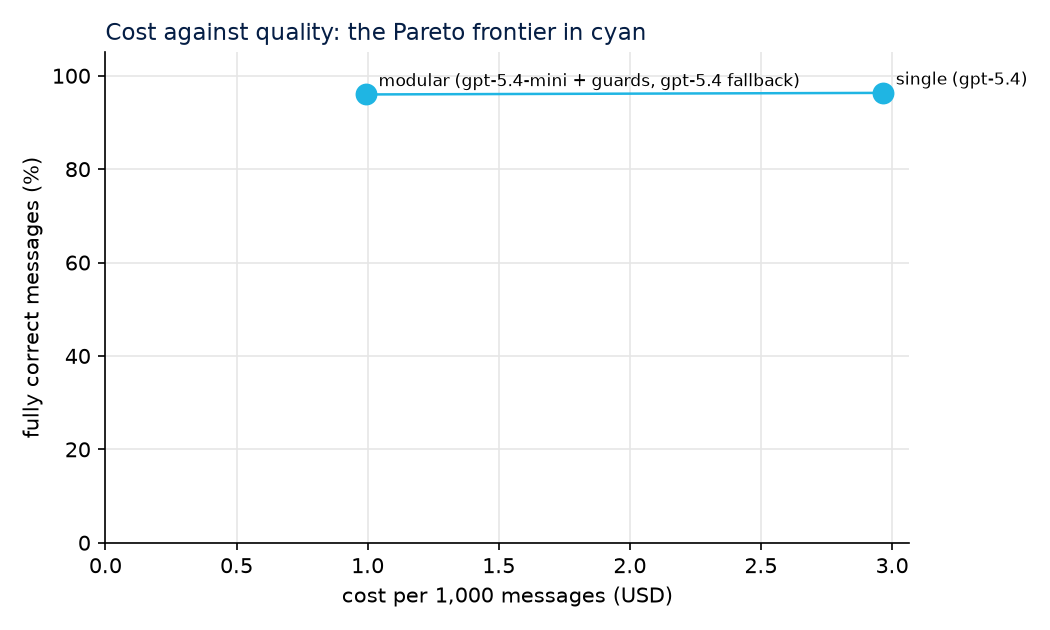
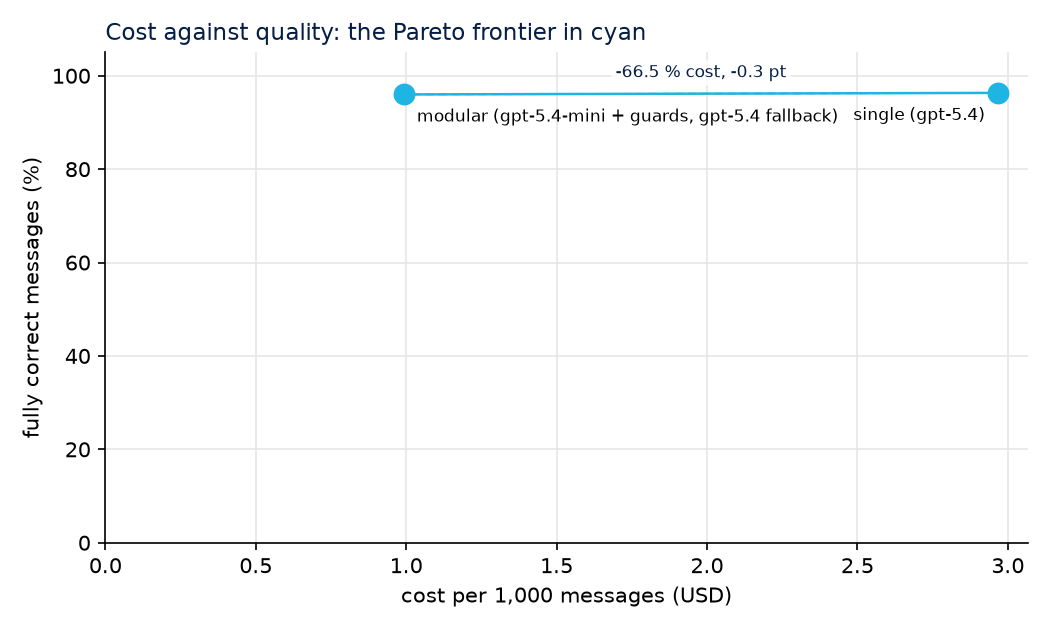
Pareto chart: the distance between each modular design and its single-prompt pair written on the chart; names under the points; a one-line reading under the chart in the READMEs

diff --git a/bench/report.py b/bench/report.py
@@ -95,12 +95,45 @@ def chart_pareto(frame: pl.DataFrame, path: Path) -> list[str]:
     points = list(zip(frame["cost_per_1k_usd"].to_list(), frame["correct"].to_list(), frame["arch"].to_list(), strict=True))
     frontier = pareto_frontier(points)
     fig, ax = plt.subplots(figsize=(7, 4.2), dpi=150)
+    widest = max(cost for cost, _, _ in points) or 1
     for cost, quality, label in points:
         on_frontier = (cost, quality, label) in frontier
         ax.scatter(cost, 100 * quality, s=90 if on_frontier else 60, color=CYAN if on_frontier else GREY, zorder=3)
-        ax.annotate(label, (cost, 100 * quality), fontsize=8, xytext=(6, 4), textcoords="offset points")
+        # Names under the points, pulled inwards on the right half.
+        right = cost > 0.6 * widest
+        ax.annotate(
+            label,
+            (cost, 100 * quality),
+            fontsize=8,
+            ha="right" if right else "left",
+            xytext=(-6 if right else 6, -13),
+            textcoords="offset points",
+        )
     if len(frontier) > 1:
         ax.plot([c for c, _, _ in frontier], [100 * q for _, q, _ in frontier], color=CYAN, linewidth=1.2, zorder=2)
+    # Each modular design against the single-prompt design on the same big
+    # model: a dashed line between the two and the distance written on it.
+    by_label = {label: (cost, quality) for cost, quality, label in points}
+    for label, (cost, quality) in by_label.items():
+        if not label.startswith("modular (") or " fallback)" not in label:
+            continue
+        big = label[label.rfind(", ") + 2 : label.rfind(" fallback)")]
+        base = by_label.get(f"single ({big})")
+        if not base or base[0] <= 0:
+            continue
+        ax.plot([base[0], cost], [100 * base[1], 100 * quality], color=GREY, linewidth=0.9, linestyle=(0, (4, 3)), zorder=1)
+        note = f"{100 * (cost / base[0] - 1):+.1f} % cost, {100 * (quality - base[1]):+.1f} pt"
+        ax.annotate(
+            note,
+            ((base[0] + cost) / 2, 100 * (base[1] + quality) / 2),
+            fontsize=8,
+            color=NAVY,
+            ha="center",
+            va="bottom",
+            xytext=(0, 6),
+            textcoords="offset points",
+            bbox={"boxstyle": "round,pad=0.25", "facecolor": "white", "edgecolor": "none", "alpha": 0.85},
+        )
     ax.set_xlabel("cost per 1,000 messages (USD)")
     ax.set_ylabel("fully correct messages (%)")
     ax.set_title("Cost against quality: the Pareto frontier in cyan", loc="left", fontsize=11, color=NAVY)

diff --git a/README.es.md b/README.es.md
@@ -60,7 +60,9 @@ Todo número que produce este repositorio sale de **datos sintéticos**. Nada de
 
 ![Costo contra calidad, par de OpenAI](docs/img/pareto-openai.png)
 
-- El diseño modular cuesta **67 % menos** con la misma calidad: la diferencia de 0,3 puntos es un mensaje en 300. En la corrida de calibración (gpt-5.4 contra sí mismo sobre 30 mensajes) el modelo dio la misma respuesta 30 veces de 30, así que esta muestra no distingue a los dos en calidad.
+<p align="center"><em>Misma calidad, un tercio del costo: el diseño modular con controles queda 66,5 % a la izquierda del prompt grande y 0,3 puntos por debajo, dentro del ruido de la calibración.</em></p>
+
+- El diseño modular cuesta **66,5 % menos** con la misma calidad: la diferencia de 0,3 puntos es un mensaje en 300. En la corrida de calibración (gpt-5.4 contra sí mismo sobre 30 mensajes) el modelo dio la misma respuesta 30 veces de 30, así que esta muestra no distingue a los dos en calidad.
 - Los controles se ganaron el lugar sobre el modelo chico: atraparon 9 respuestas que revelaban nuestro límite interno y 5 que aceptaban en vez de contraofertar, arreglaron 15 mensajes con un reintento y mandaron solo 3 de 300 mensajes al modelo grande.
 - Lo que cada uno sigue errando: el modelo chico lee 9 de 125 cotizaciones simples como otra intención; el grande se equivoca en un campo en 9 mensajes (un rango de plazo, una moneda al lado de un Incoterm alternativo). Ninguno inventa un número: las reglas verifican cada cifra contra el mensaje.
 - La grabación costó USD 1,19 a precio de lista (USD 0,89 el modelo grande, USD 0,30 el chico), más USD 0,18 la calibración.

diff --git a/README.md b/README.md
@@ -60,7 +60,9 @@ Every number this repository produces comes from **synthetic data**. Nothing her
 
 ![Cost against quality, OpenAI pair](docs/img/pareto-openai.png)
 
-- The modular design costs **67 % less** at the same quality: the 0.3-point gap is one message in 300. On the calibration run (gpt-5.4 against itself on 30 messages) the model gave the same answer 30 times out of 30, so this sample cannot tell the two apart on quality.
+<p align="center"><em>Same quality, a third of the cost: the modular design with guards sits 66.5 % to the left of the single big prompt and 0.3 points below it, within the noise of the calibration run.</em></p>
+
+- The modular design costs **66.5 % less** at the same quality: the 0.3-point gap is one message in 300. On the calibration run (gpt-5.4 against itself on 30 messages) the model gave the same answer 30 times out of 30, so this sample cannot tell the two apart on quality.
 - The guards earned their keep on the small model: they caught 9 replies that leaked our internal limit and 5 that accepted instead of countering, fixed 15 messages with one retry, and sent only 3 of 300 messages to the big model.
 - What each one still gets wrong: the small model reads 9 of 125 plain quotes as another intent; the big model misreads one field in 9 messages (a lead-time range, a currency next to an alternative Incoterm). Neither invents a number: the rules check every figure against the message.
 - The recording cost USD 1.19 at list price (USD 0.89 for the big model, USD 0.30 for the small one), plus USD 0.18 for the calibration.
